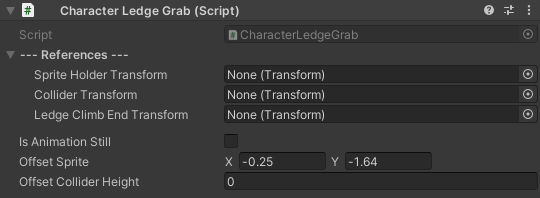
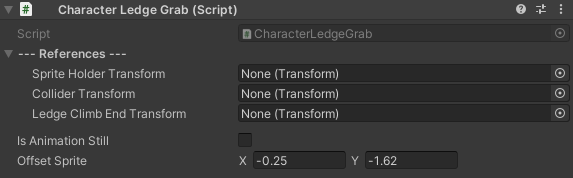
Updated to reflect the changes in the asset.

diff --git a/2D Controller/HTML/character-setup.html b/2D Controller/HTML/character-setup.html
@@ -29,6 +29,7 @@
                 <li><a class="redirect-link" href="#character-object-setup">Character Object Setup</a></li>
                 <li><a class="redirect-link" href="#character-animations-setup">Character Animations Setup</a></li>
                 <li><a class="redirect-link" href="#character-animations-setup-single-jump-animation">Character Animations Setup - Single Jump Animation</a></li>
+                <li><a class="redirect-link" href="#animation-clips-rebind">Animation Clips Rebind</a></li>
                 <li><a class="redirect-link" href="#mechanics-setup">Mechanics Setup</a></li>
             </ul>
         </p>
@@ -45,18 +46,26 @@
             <li>
                 <b>Assigning the Default Character Sprite:</b>
                 <br>
-                Navigate to the SpriteRenderer component within the <b>CharacterTemplate</b> in your scene. This component can be found under <b>CharacterTemplate -> SpriteHolder -> Sprites</b>.
-                Here, select and reference your desired character sprite to serve as the default appearance of your character.
+                Navigate to the SpriteRenderer component within the <b>CharacterTemplate</b> in your scene. This component can be found under <b>CharacterTemplate -> Animatable -> SpriteHolder -> Sprites</b>.
+                Here, select and reference your desired character sprite to serve as the default appearance of your character. You can also scale the <b>Sprites</b> object if you wish to change
+                the size of your character.
             </li>
             <br>
             <li>
                 <b>Aligning Colliders:</b>
                 <br>
-                Ensure that your selected sprite aligns properly with the character's colliders. You can find the colliders under <b>CharacterTemplate -> Colliders -> Horizontal / Vertical</b>.
+                Ensure that your selected sprite aligns properly with the character's colliders. You can find the colliders under <b>CharacterTemplate -> Animatable -> Colliders -> Horizontal / Vertical</b>.
                 Specifically, focus on the <b>Vertical</b> collider as it should have no offset set in the X axis to ensure proper alignment. The <b>Horizontal</b> collider, on the other hand,
-                generally does not require adjustment for alignment, but you may still review it for optimal positioning if needed.
+                generally does not require any special adjustment for alignment, but you may still review it for optimal positioning if needed.
                 <br><br>
                 <b>Note:</b> For more detailed information on the colliders and their usage, refer to <b>CharacterEnvironmentalQuery.</b><a class="redirect-link" href="CLASSES/SCRIPTING/ENV-QUERY/PUBLIC-METHODS/set-active-collider.html">SetActiveCollider</a>.
+            </li>
+            <br>
+            <li>
+                <b>Layers & Tags:</b>
+                <br>
+                Assign your character to the desired <b>Layer</b> and/or <b>Tag</b>. By default, the assigned layer is set to <b>Ignore Raycast</b> since the asset cannot be destributed with
+                custom layers included.
             </li>
             <br>
             <li>
@@ -92,8 +101,8 @@
             However, <b>unlike the other states</b>, if you lack a distinct animation for double jumping, do not leave the field empty; instead, reference your
             normal jump animation.
             <br><br>
-            <b>Important:</b> Ensure that you reference the newly created animator controller to the animator component field of your character object. You
-            can find this field within the character object under <b>CharacterTemplate -> SpriteHolder -> Sprites</b>.
+            <b style="color: red;">Important:</b> Ensure that you reference the newly created animator controller to the animator component field of your character object. You
+            can find this field within the character object under <b>CharacterTemplate -> Animatable</b>.
         </p>
         <br>
         <img class="img-large" src="../IMAGES/_CHARACTER-SETUP/AnimatorSetup.png" alt="AnimatorSetup">
@@ -105,11 +114,38 @@
             tree settings. From there, you can assign the three animations that make up your jump sequence. The blend tree is pre-configured with default threshold values that should work
             well with any combination of animations.
             <br><br>
-            <b>Note:</b> If you only have a <b>single</b> animation for jumping, you can use the same animation for all three fields in the blend tree. Removing any of the three animation
+            <b style="color: red;">Important:</b> If you only have a <b>single</b> animation for jumping, you can use the same animation for all three fields in the blend tree. Removing any of the three animation
             references may cause unwanted behaviour.
         </p>
         <br>
         <img class="img-large" src="../IMAGES/_CHARACTER-SETUP/JumpBlendTree.png" alt="JumpSetup">
+        <br>
+        <h2 id="animation-clips-rebind">Animation Clips Rebind</h2>
+        <p>
+            By default, Unity expects an <b>Animator</b> component to be attached to the same object as a <b>Sprite Renderer</b> component. This setup allows animation clips to play
+            correctly without additional configuration. However, in this case, the Animator component <b>is not</b> on the same object as the Sprite Renderer. Therefore, the animation clips'
+            paths need to be updated to reflect this change.
+            <br><br>
+            To ensure the <b>Animator</b> component <b>correctly</b> locates the <b>Sprite Renderer</b> in the hierarchy, follow these steps using the <b>provided tool</b> for changing animation
+            clip paths:
+        </p>
+        <ul>
+            <b><li>Backup Animation Clips:</li></b>
+            Make sure to first backup your animation clips of your character.
+            <br><br>
+            <b><li>Select Character Object:</li></b>
+            Select your character in the hierarchy window.
+            <br><br>
+            <b><li>Rebind the Animation Clips:</li></b>
+            With the character selected, head over to <b>Tools -> Rebind Animator Sprites</b> in the top menu.
+            <br>
+            <b style="color: red;">Important:</b> Remember to <b>re-run</b> the tool whenever you add <b>new</b> animation clips to the Animator.
+        </ul>
+        <p>
+            With this setup, you will be able to animate other parts of your character, such as the character collider, alongside the main character animations.
+        </p>
+        <br>
+        <img class="img-large" src="../IMAGES/_CHARACTER-SETUP/AnimatorRebind.png" alt="AnimatorRebind">
         <br>
         <h2 id="mechanics-setup">Mechanics Setup</h2>
         <p>
@@ -135,7 +171,7 @@
         </p>
         <ul>
             <li><a class="redirect-link" href="CLASSES/MANUAL/CHARACTER-MOVEMENT/character-movement.html">CharacterMovement</a>: Provides basic movement controls.</li>
-            <li><a class="redirect-link" href="CLASSES/MANUAL/HUMANOID-CONTROLLER/humanoid-controller.html">HumanoidController</a>: Manages humanoid character behaviours. <b>(Your custom controller)</b></li>
+            <li><a class="redirect-link" href="CLASSES/MANUAL/HUMANOID-CONTROLLER/humanoid-controller.html">CustomControllerTemplate</a>: Manages humanoid character behaviours. <b>(Replace with your custom controller)</b></li>
             <li><a class="redirect-link" href="CLASSES/MANUAL/ENV-QUERY/env-query.html">CharacterEnvironmentalQuery</a>: Facilitates environmental interactions.</li>
         </ul>
         <p>

diff --git a/2D Controller/HTML/CLASSES/MANUAL/CHARACTER-LEDGE-GRAB/character-ledge-grab.html b/2D Controller/HTML/CLASSES/MANUAL/CHARACTER-LEDGE-GRAB/character-ledge-grab.html
@@ -52,12 +52,15 @@
                 <td class="description">
                     Transform of the character's vertical collider.
                     <br>
-                    If you do not intend to offset the collider's position when the character is grabbing a ledge, you can leave this field empty.
+                    It will be offseted based on the <b>OffsetSprite</b> value to match the visual position of the character.
                 </td>
             </tr>
             <tr>
                 <td class="label"><b>LedgeClimbEndTransform</b></td>
-                <td class="description">A <a class="redirect-link" href="https://docs.unity3d.com/ScriptReference/Physics.Raycast.html">Raycast</a> will be fired downward to determine the precise location where the character should be positioned after performing the ledge climb.</td>
+                <td class="description">A <a class="redirect-link" href="https://docs.unity3d.com/ScriptReference/Physics.Raycast.html">Raycast</a> will be fired downward to determine
+                    the precise location where the character should be positioned after performing the ledge climb. Position this transform to the location that your character should
+                    be, when the ledge-climb action is completed.
+                </td>
             </tr>
         </table>
         <br>
@@ -102,10 +105,6 @@
                     relative to the edge. Adjusting the offset will ensure that every time your character hits a ledge, they will be positioned correctly.
                     <b>Note that the actual position of the character object, will not be affected.</b>
                 </td>
-            </tr>
-            <tr>
-                <td class="label"><b>OffsetColliderHeight</b></td>
-                <td class="description">Offset the character's collider if it doesn't correspond to the player's position.</td>
             </tr>
         </table>
     </div>

diff --git a/2D Controller/HTML/CLASSES/classes.html b/2D Controller/HTML/CLASSES/classes.html
@@ -104,12 +104,13 @@
         </div>
         <h2>Namespaces</h2>
         <p>
-            To use any of the provided classes in the asset, make sure to use the correct namespace.
+            To reference any of the provided classes in the asset, make sure to use the correct namespace.
         </p>
         <ul>
             <b><li>using CharacterController2D;</li></b>
             <ul>
                 <li>Utilities</li>
+                <li>DashEffect</li>
             </ul>
         </ul>
         <ul>
@@ -128,7 +129,6 @@
                 <li>CharacterLedgeGrab</li>
                 <li>CharacterMovement</li>
                 <li>CharacterSlide</li>
-                <li>DashEffect</li>
             </ul>
         </ul>
         <ul>
@@ -157,6 +157,19 @@
                 <li>SimpleActionCooldownUI</li>
                 <li>BowAttackUI</li>
                 <li>HealthUI</li>
+            </ul>
+        </ul>
+        <ul>
+            <b><li>using CharacterController2D.EditorScripts;</li></b>
+            <ul>
+                <li>CharacterEnvironmentalQueryEditor</li>
+                <li>HumanoidControllerEditor</li>
+                <li>CharacterLedgeGrabEditor</li>
+                <li>CharacterCombatEditor</li>
+                <li>EntityHealthEditor</li>
+                <li>AttackSOEditor</li>
+                <li>CombatSystemProjectileEditor</li>
+                <li>AnimatorSpriteRebinder</li>
             </ul>
         </ul>
     </div>    

diff --git a/2D Controller/HTML/locomotion-controller.html b/2D Controller/HTML/locomotion-controller.html
@@ -58,9 +58,9 @@
         <p>
             To implement horizontal movement for your character, simply call the  <a class="redirect-link" href="CLASSES/SCRIPTING/HUMANOID-CONTROLLER/PUBLIC-METHODS/change-horizontal-velocity.html">ChangeHorizontalVelocity</a>
             method of the <a class="redirect-link" href="CLASSES/SCRIPTING/HUMANOID-CONTROLLER/humanoid-controller.html">HumanoidController</a> class and pass as the parameter the horizontal
-            input as a Vector2 variable.
+            input as a <a class="redirect-link" href="https://docs.unity3d.com/ScriptReference/Vector2.html">Vector2</a> variable.
             <br><br>
-            <b>Note:</b> When obtaining the horizontal input from the keyboard, it is preferable to call the <a class="redirect-link" href="https://docs.unity3d.com/ScriptReference/Input.GetAxisRaw.html">GetAxisRaw</a>
+            <b style="color: red;">Important:</b> When obtaining the horizontal input from the keyboard, it is preferable to call the <a class="redirect-link" href="https://docs.unity3d.com/ScriptReference/Input.GetAxisRaw.html">GetAxisRaw</a>
             method instead of <a class="redirect-link" href="https://docs.unity3d.com/ScriptReference/Input.GetAxis.html">GetAxis</a>, as the latter can make the movement laggy. 
         </p>
         <br>

diff --git a/2D Controller/HTML/frequently-asked-questions.html b/2D Controller/HTML/frequently-asked-questions.html
@@ -69,8 +69,8 @@
             </li>
             <li class="answer-li">
                 The root character object doesn't have colliders attached; the asset uses separate colliders in child objects. To access the HumanoidController class in your collision
-                callback, use <b>collision.transform.root.GetComponent&lt;HumanoidController&gt;()</b> instead of <b>collision.GetComponent&lt;HumanoidController&gt;()</b>. This ensures you're referencing the
-                    root object containing the HumanoidController component.
+                callback, use <b>collision.transform.root.GetComponent&lt;HumanoidController&gt;();</b> instead of <b>collision.GetComponent&lt;HumanoidController&gt;();</b>. This ensures
+                you're referencing the <b>root</b> object containing the HumanoidController component.
             </li>
         </ul>
         <br>
@@ -123,6 +123,8 @@
             </li>
             <li class="answer-li">
                 Unfortunately, the combat system within the asset <b>does not support</b> charge attacks in a combo sequence. Combo attacks can only consist of normal attacks.
+                <br>
+                With enough demand this is subject to change.
             </li>
         </ul>
         <br>
